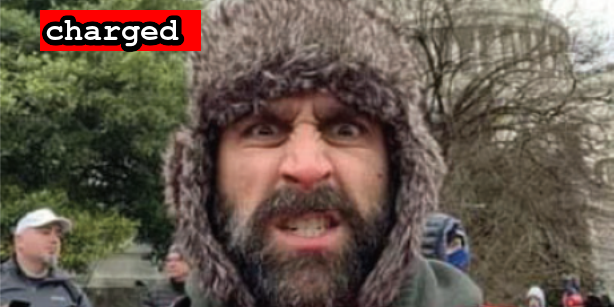
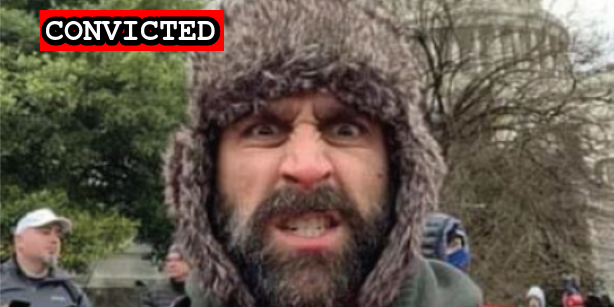
Guilty plea

Changed region(s): [[0.0619, 0.0293, 0.3713, 0.1759]]

diff --git a/docs/_suspects/kenneth-reda.md b/docs/_suspects/kenneth-reda.md
@@ -4,8 +4,8 @@ lastName: Reda
 aka:
 residence: Florida
 status: Charged
-date:
-charged:
+date: 2021-07-01
+charged: 2021-07-01
 indicted:
 convicted:
 sentenced:
@@ -29,5 +29,6 @@ layout: suspect
 published: false
 charges:
 ---
+
 - [News Report]()
 - [Statement of Facts](https://www.justice.gov/usao-dc/case-multi-defendant/file/1408996/download)

diff --git a/docs/_suspects/matthew-mazzocco.md b/docs/_suspects/matthew-mazzocco.md
@@ -3,11 +3,11 @@ name: Matthew Mazzocco
 lastName: Mazzocco
 aka:
 residence: Texas
-status: Charged
+status: Convicted
 date: 2021-01-17
 charged: 2021-01-17
 indicted:
-convicted: 
+convicted: 2021-07-02
 sentenced: 
 dismissed: 
 age: 37
